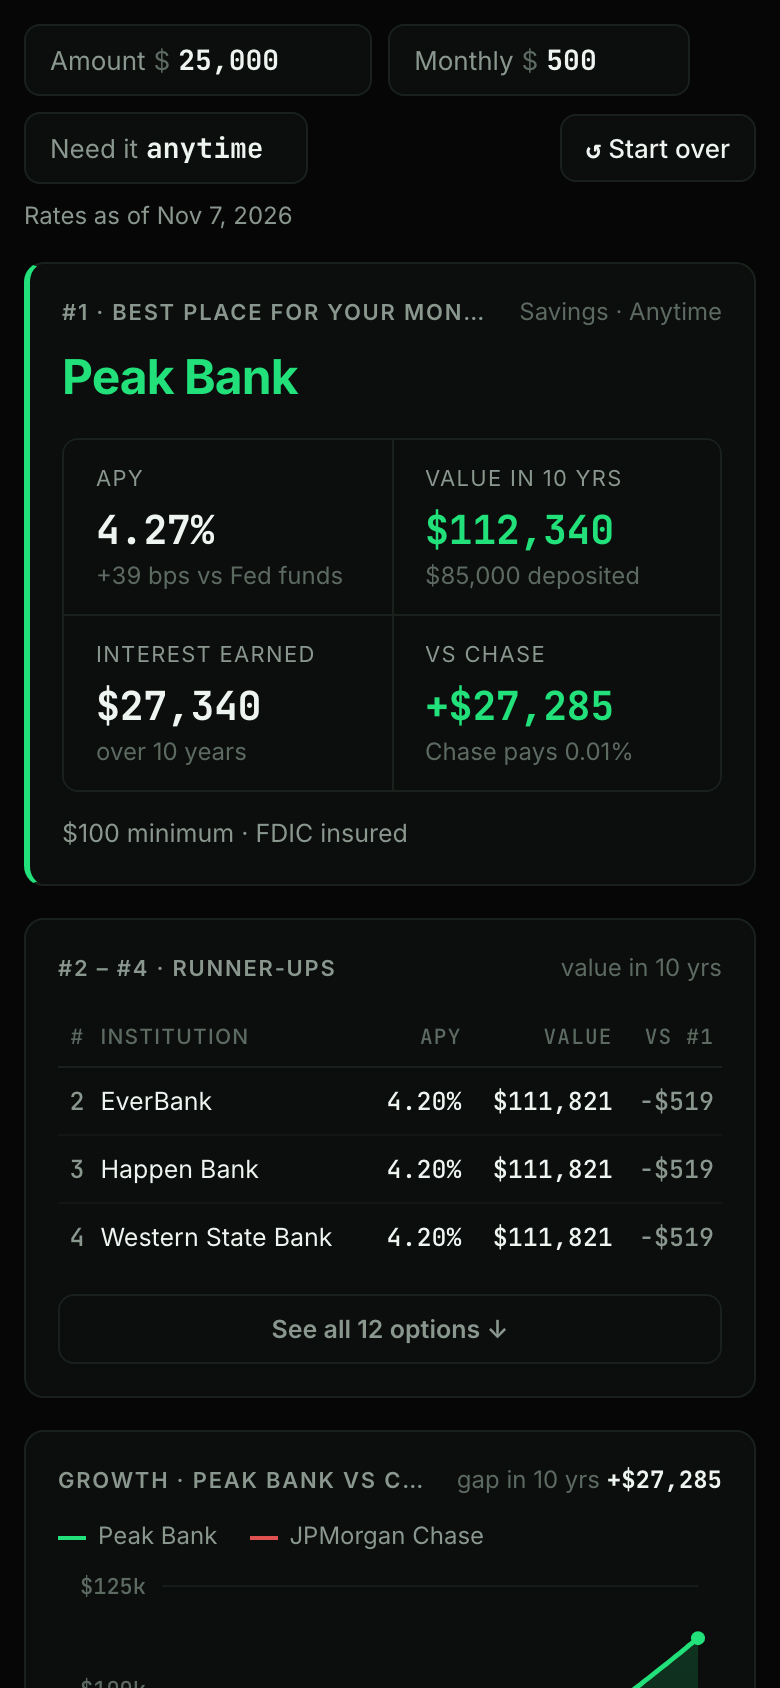
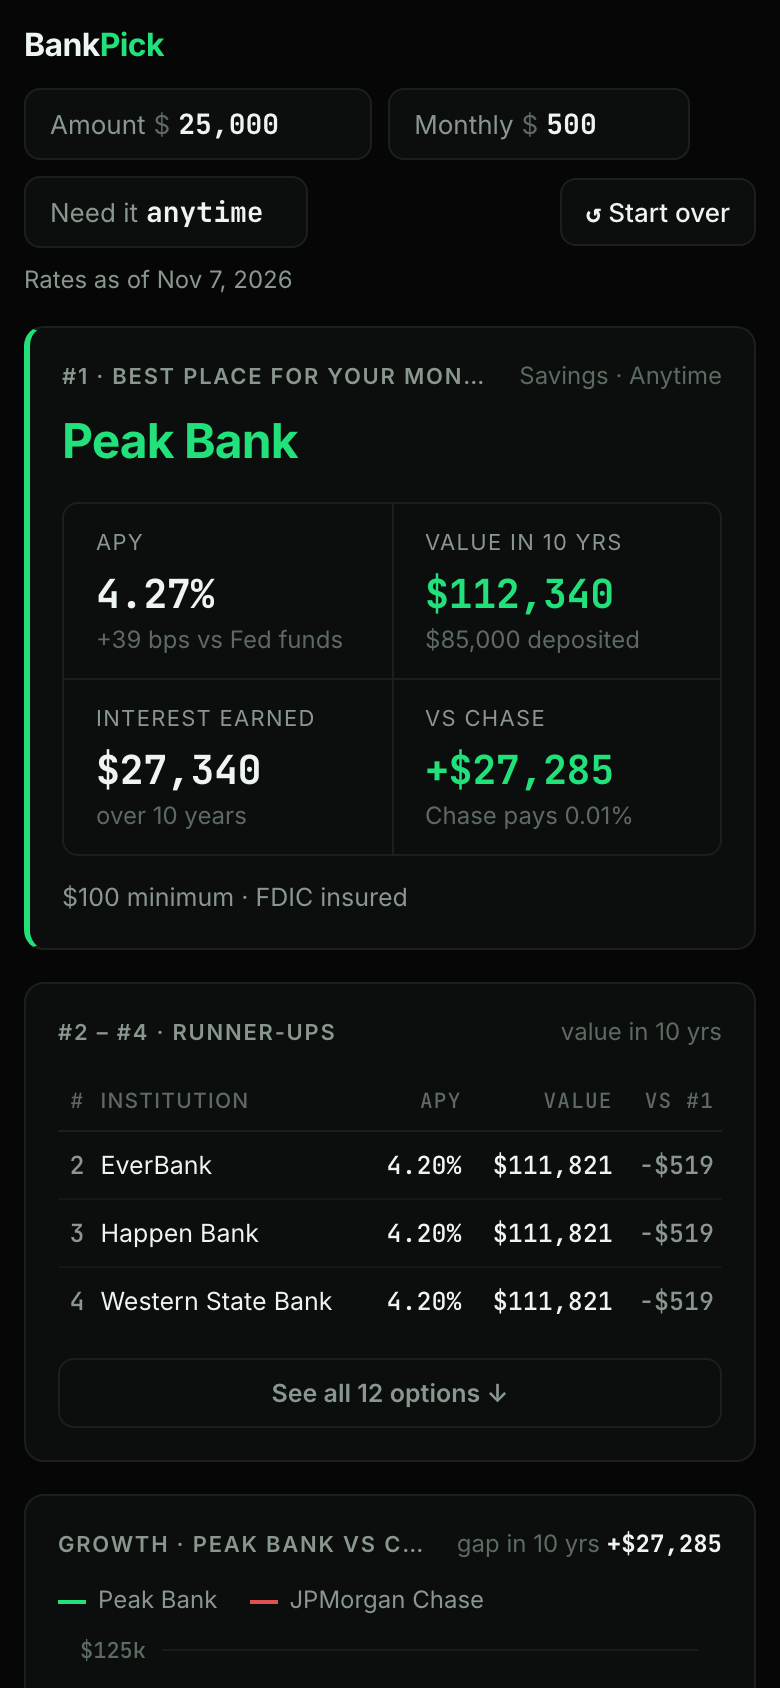
docs: straight README intro, no Chase comparison; screenshots with the BankPick name

diff --git a/README.md b/README.md
@@ -2,7 +2,7 @@
 
 **Where to put your money**
 
-Tell it how much you have, what you add monthly, and when you need it back. BankPick shows you the bank, CD or Treasury that pays you the most, with rates pulled fresh every day
+BankPick tells you which bank to put your money in. Enter how much you have, what you add monthly, and when you need it back, and it ranks savings accounts, CDs and Treasuries by what you'd end up with. Rates refresh every day
 
 [![Live site](https://img.shields.io/badge/live-danieldistor.github.io-22e07a?style=flat-square)](https://danieldistor.github.io/deposit-pricing-analytics-banking/)
 [![Refresh Data](https://github.com/DanielDistor/deposit-pricing-analytics-banking/actions/workflows/refresh-data.yml/badge.svg)](https://github.com/DanielDistor/deposit-pricing-analytics-banking/actions/workflows/refresh-data.yml)
@@ -13,12 +13,6 @@ Tell it how much you have, what you add monthly, and when you need it back. Bank
 Try it: [$25k + $500 a month](https://danieldistor.github.io/deposit-pricing-analytics-banking/?amount=25000&monthly=500) · [$25k you need in 2 years](https://danieldistor.github.io/deposit-pricing-analytics-banking/?amount=25000&need=24)
 
 ![Dashboard](docs/screenshots/dashboard.png)
-
-## Why
-
-Chase pays 0.01% on savings. The best online banks pay over 4%
-
-On $25k plus $500 a month, that's $27,285 more after 10 years just from picking the right bank. Most people never check, so BankPick does it for them
 
 ## How it works
 
@@ -45,7 +39,7 @@ On $25k plus $500 a month, that's $27,285 more after 10 years just from picking 
 
 Built like a rates sheet: numbers in labeled cells and tables, not paragraphs
 
-- **#1 card:** the pick, its APY (in bps vs Fed funds), what you'll have, interest earned, and how far ahead of Chase it puts you
+- **#1 card:** the pick, its APY, what you'll have, and interest earned
 - **#2–#4 card:** the runner-ups with APY, value and how much less than #1, plus **See all** for the full ranked table
 - **Full table:** every option with product, minimum, liquidity (anytime or locked until a date), value and gap to #1, with Chase, BofA, Wells Fargo and Citi pinned at the bottom for reference
 - **Charts:** growth vs Chase, and the best online rate vs Fed funds over the past year with the spread in bps
